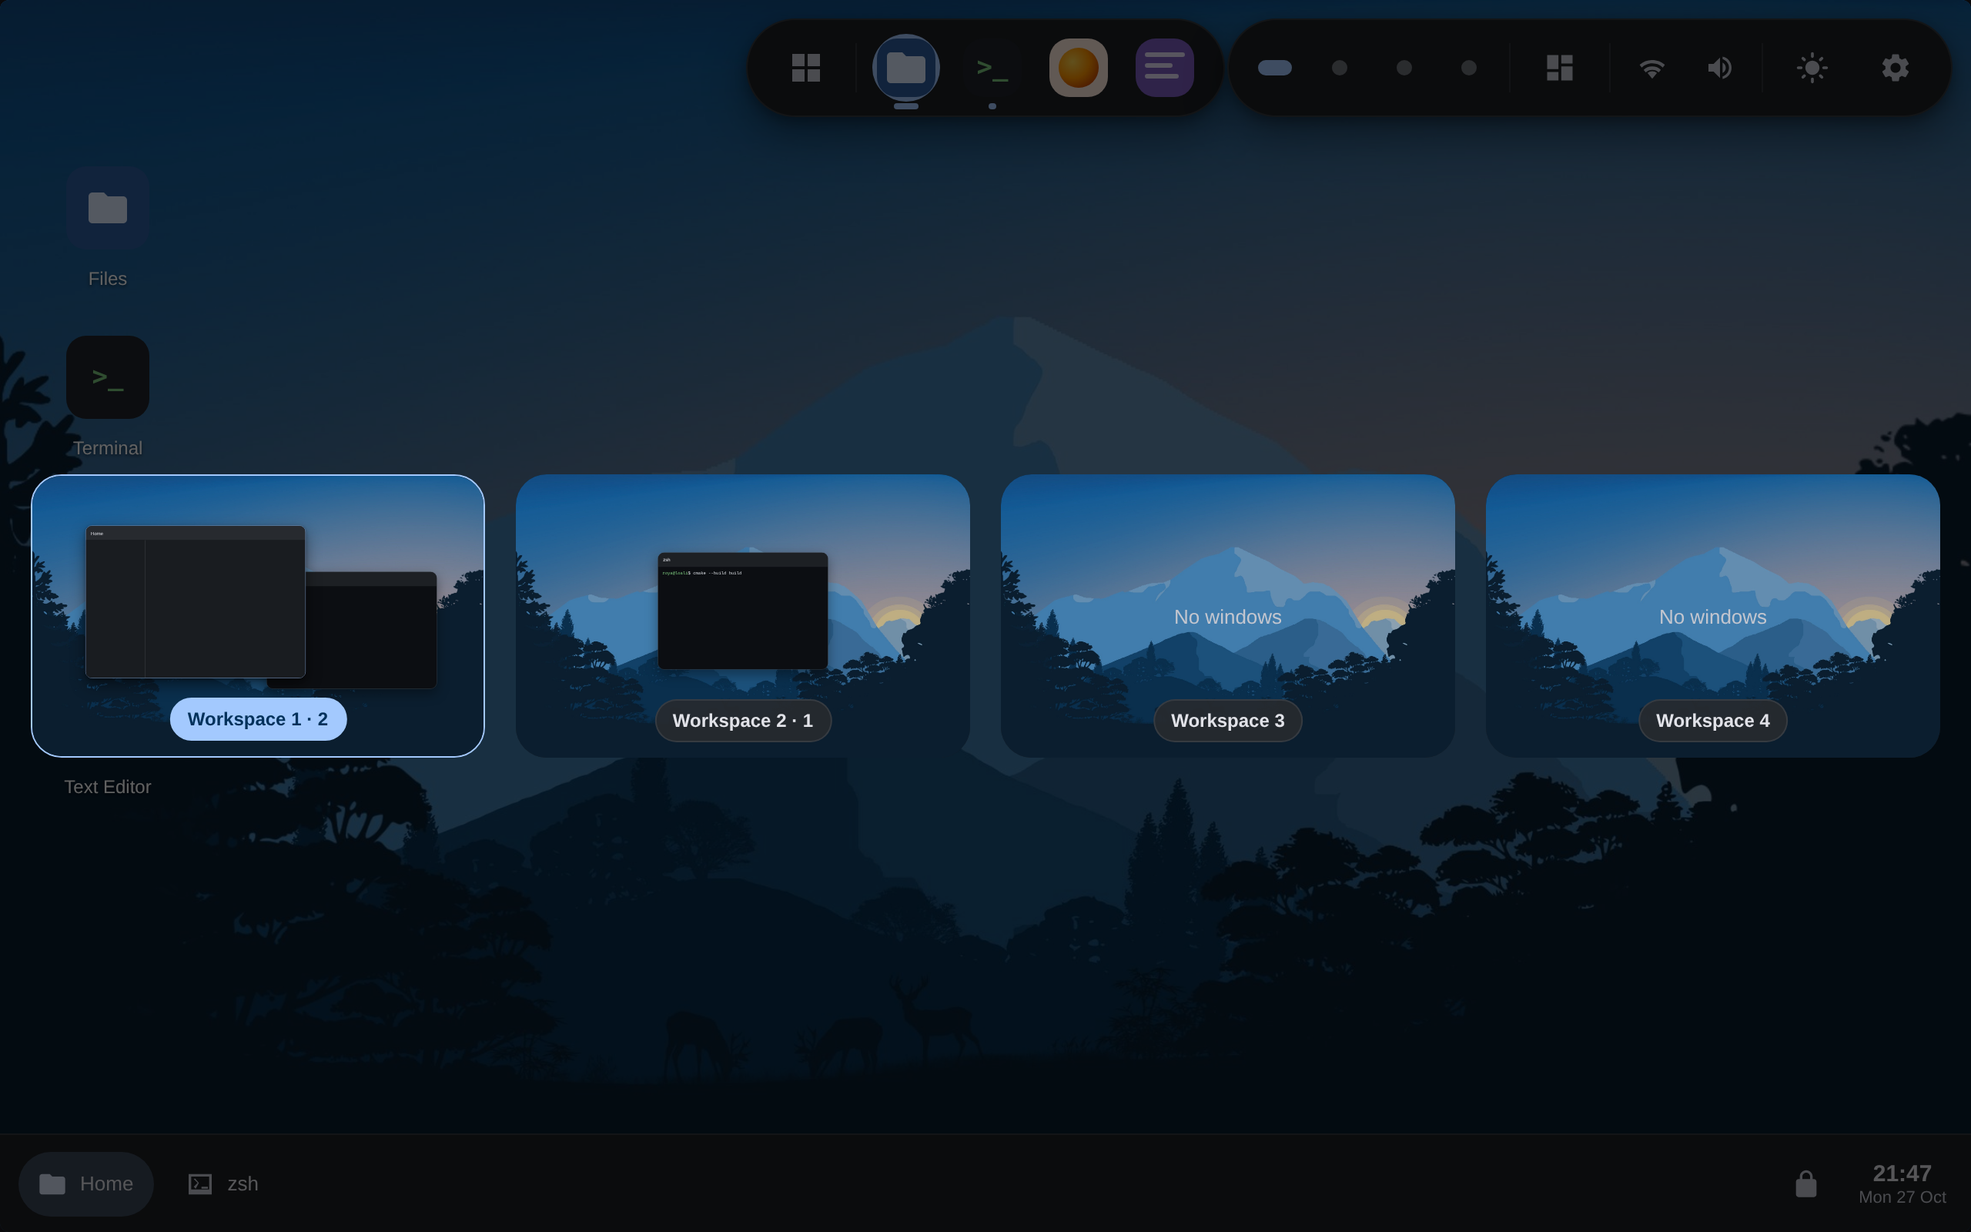
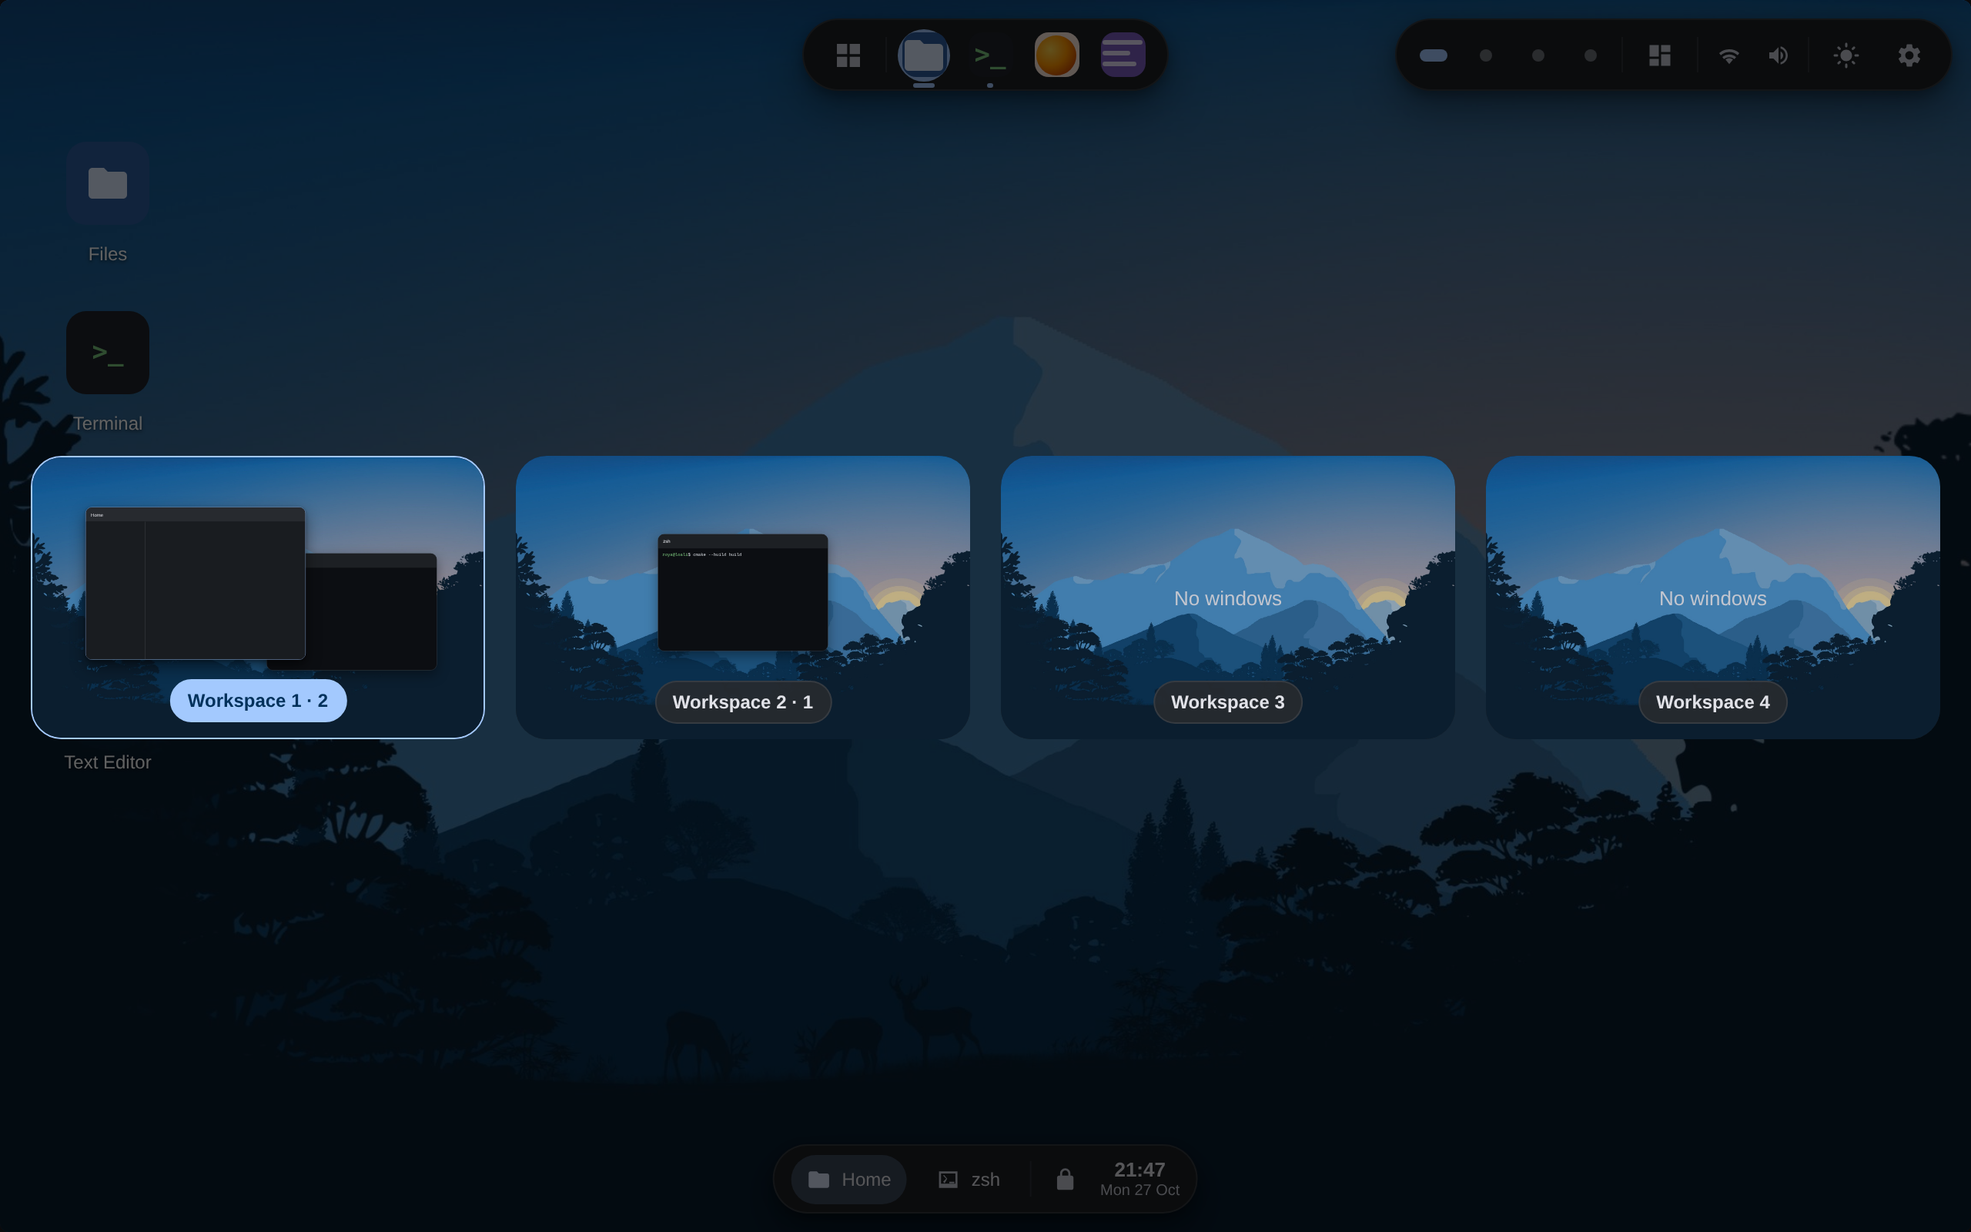
docs

diff --git a/README.md b/README.md
@@ -22,23 +22,24 @@
 
 ---
 
-**Loali** is a lightweight, expressive desktop shell for Linux. It is a real Wayland compositor written in C++ and QML on top of Qt Wayland Compositor — the same technology used by production display servers. Instead of floating windows over an empty canvas, Loali brings a familiar and friendly layout: a **dock pinned to the top**, a **taskbar along the bottom**, and **icons living right on the desktop**, all wrapped in the bold shapes, vivid tonal colors and springy motion of Material 3 Expressive.
+**Loali** is a lightweight, expressive desktop shell for Linux. It is a real Wayland compositor written in C++ and QML on top of Qt Wayland Compositor — the same technology used by production display servers. Instead of floating windows over an empty canvas, Loali brings a familiar and friendly layout: a **dock up top** (a morphing Dynamic Island or a flat plane), a **taskbar at the bottom** (a streamlined floating pill or a classic full-width bar), and **icons living right on the desktop**, all wrapped in the bold shapes, vivid tonal colors and springy motion of Material 3 Expressive.
 
 <div align="center">
   <a href="docs/screenshots/desktop.png"><img src="docs/screenshots/desktop.png" alt="Loali desktop — dock, status pill, taskbar, windows and notifications" width="49%"/></a>
   <a href="docs/screenshots/expo.png"><img src="docs/screenshots/expo.png" alt="Workspace overview with live window previews" width="49%"/></a>
   <br/>
   <a href="docs/screenshots/launcher.png"><img src="docs/screenshots/launcher.png" alt="App launcher with search" width="49%"/></a>
-  <a href="docs/screenshots/settings.png"><img src="docs/screenshots/settings.png" alt="Settings — appearance, dynamic color and accents" width="49%"/></a>
-  <p><em>Desktop · workspace overview (Super+W) · app launcher (Super+A) · Settings (Super+S)</em></p>
+  <a href="docs/screenshots/settings.png"><img src="docs/screenshots/settings.png" alt="Settings — panels, dynamic color and accents" width="49%"/></a>
+  <p><em>Desktop · workspace overview (Super+W) · app launcher (Super+A) · Settings → Panels (Super+S)</em></p>
 </div>
 
 ## Features
 
 - **Native Wayland compositor** — Loali *is* the display server, built with the official Qt Wayland Compositor API (XdgShell, server-side decorations, popups).
-- **Top dock** — a floating pill with pinned apps, springy hover magnification, running indicators and an app grid launcher button.
+- **Top dock** — two looks: a **Dynamic Island** pill that breathes with hover and app launches (it widens, shows the launched app’s title, then tucks back), or a flat full-width plane; pinned apps, springy hover magnification and running indicators in both.
 - **Status pill** — workspace dots, a StatusNotifier system tray and a settings button, floating at the top right.
-- **Bottom taskbar** — window buttons for every open toplevel, a lock shortcut and a live clock.
+- **Bottom taskbar** — two styles: a **streamlined floating pill** that stays out of the corners and widens only when tasks overflow, or a classic full-width bar; window buttons, a lock shortcut and a live clock.
+- **Panel size control** — a single slider in Settings → Panels scales the dock, taskbar and status pill together (70–130 %), and maximized windows keep their work area in sync automatically.
 - **Desktop icons** — a grid of installed applications directly on the wallpaper, with selection and double-click launch.
 - **App launcher** — a searchable full-screen grid of installed applications.
 - **Virtual workspaces** — 2–6 independent desktops with an animated switcher in the status pill, `Super+1…6` to switch and `Super+Shift+1…6` to send windows across.
@@ -49,7 +50,7 @@
 - **Dark / light theme** — a one-tap toggle (status pill or Settings → Appearance) switches the entire M3 token set between the dark and light Material schemes, Obsidian-style; the dynamic Material You palette is regenerated for the chosen mode and persisted.
 - **Notifications daemon** — a real `org.freedesktop.Notifications` server on the session bus: summary, body, app icons and image hints render as M3 cards stacked in the corner, actions are forwarded back to the sender, critical alerts stay on screen, and Do Not Disturb lives in Settings.
 - **Dynamic Material You color** — the seed color is extracted from the wallpaper (Wu quantizer + scoring) and a full Material 3 tonal scheme is generated with Google’s `material-color-utilities` (HCT / CAM16); dock, taskbar, windows, launcher and settings all recolor live, with manual accent and wallpaper-suggested swatches as fallback.
-- **Settings application** — a built-in M3 settings app with wallpaper (bundled art, custom image path, dim overlay), accent color, workspace count, a shortcut cheat-sheet and an about page; everything persists via QSettings.
+- **Settings application** — a built-in M3 settings app with wallpaper (bundled art, custom image path, dim overlay), accent color, panels (taskbar style, dock look, panel size), workspace count, a shortcut cheat-sheet and an about page; everything persists via QSettings.
 - **Wallpapers** — a bundled default artwork plus procedural M3E gradient styles, applied to the desktop and the lock screen.
 - **Window management** — server-side title bars, drag, 8-way resize, maximize, fullscreen, minimize, click-to-focus.
 - **Lock screen** — large M3 display-style clock over a dimmed wallpaper.
@@ -138,14 +139,14 @@ Loali/
 ├── qml/
 │   ├── Main.qml              WaylandCompositor, XdgShell, workspaces, shortcuts
 │   ├── Chrome.qml            server-side decorations, drag/resize, snap/tiling
-│   ├── Dock.qml              top dock (pinned apps, indicators)
+│   ├── Dock.qml              top dock (Dynamic Island / plane modes, pinned apps)
 │   ├── StatusPill.qml        workspaces switcher, expo button, tray icons, theme toggle
 │   ├── TrayMenuPanel.qml     M3 popup renderer for DBusMenu tray menus
 │   ├── Expo.qml              workspace overview with live window previews
-│   ├── Taskbar.qml           bottom taskbar (windows, lock, clock)
+│   ├── Taskbar.qml           bottom taskbar (floating / full modes, lock, clock)
 │   ├── Desktop.qml           wallpaper + desktop icon grid
 │   ├── Launcher.qml          app grid overlay with search
-│   ├── SettingsApp.qml       settings: wallpaper, dynamic color, workspaces, notifications, about
+│   ├── SettingsApp.qml       settings: wallpaper, appearance, panels, workspaces, notifications, about
 │   ├── NotificationPopups.qml  M3 notification cards stacked top-right
 │   ├── LockScreen.qml        lock overlay with big clock
 │   ├── Wallpaper.qml         image / procedural wallpapers with dim overlay
@@ -174,6 +175,7 @@ The shell follows the reference Qt compositor pattern: `XdgShell.onToplevelCreat
 - [x] Notifications daemon
 - [x] Dark / light theme toggle
 - [x] Workspace expo with window previews
+- [x] Floating taskbar and Dynamic Island dock, panel size settings
 
 ## Contributing
 
@@ -185,17 +187,17 @@ Loali is licensed under the [GNU GPL-3.0](LICENSE). Material Symbols path data u
 
 ## Русский
 
-**Loali** — лёгкая и выразительная графическая среда для Linux. Это настоящий Wayland-композитор на C++ и QML поверх Qt Wayland Compositor. Знакомая раскладка в смелом стиле Material 3 Expressive: **док сверху**, **панель задач снизу**, **иконки прямо на рабочем столе**.
+**Loali** — лёгкая и выразительная графическая среда для Linux. Это настоящий Wayland-композитор на C++ и QML поверх Qt Wayland Compositor. Знакомая раскладка в смелом стиле Material 3 Expressive: **док сверху** (морфирующий Dynamic Island или плоская полоса), **панель задач снизу** (обтекаемая плавающая пилюля или классическая полоса во всю ширину), **иконки прямо на рабочем столе**.
 
 <div align="center">
   <a href="docs/screenshots/desktop.png"><img src="docs/screenshots/desktop.png" alt="Рабочий стол Loali" width="49%"/></a>
   <a href="docs/screenshots/expo.png"><img src="docs/screenshots/expo.png" alt="Экспо рабочих столов" width="49%"/></a>
   <br/>
   <a href="docs/screenshots/launcher.png"><img src="docs/screenshots/launcher.png" alt="Лаунчер приложений" width="49%"/></a>
-  <a href="docs/screenshots/settings.png"><img src="docs/screenshots/settings.png" alt="Настройки — внешний вид" width="49%"/></a>
+  <a href="docs/screenshots/settings.png"><img src="docs/screenshots/settings.png" alt="Настройки — панели" width="49%"/></a>
 </div>
 
-Возможности: нативный Wayland-композитор (XdgShell, серверные декорации), верхний док с закреплёнными приложениями и пружинными анимациями, статус-пилюля с переключателем рабочих столов, кнопкой экспо, системным треем и переключателем темы, нижний таскбар с кнопками окон и часами, сетка иконок на рабочем столе, лаунчер с поиском, **виртуальные рабочие столы** (2–6, переключение `Super+1…6`, перенос окон `Super+Shift+1…6`), **экспо рабочих столов** (`Super+W`) с живыми превью окон: клик по ячейке переключает стол, перетаскивание окна между ячейками переносит его между столами, **тайлинг окон** — половины и углы по `Super`-стрелкам и перетаскиванием к краям экрана с живым превью, **меню трея по DBusMenu** — правый клик по иконке трея показывает настоящее меню `com.canonical.dbusmenu` (иконки, разделители, галочки, радиокнопки, подменю), **drag-упорядочивание иконок трея** — порядок сохраняется между сессиями, **светлая и тёмная темы** — переключение всего набора токенов M3 одним тапом, **демон уведомлений** `org.freedesktop.Notifications` — карточки M3 с действиями, критические алерты и режим «Не беспокоить», **динамический цвет Material You** — палитра генерируется из обоев (квантизатор Wu + HCT/CAM16 из material-color-utilities), интерфейс перекрашивается на лету, есть ручной акцент и подсказки обоев, **приложение «Настройки»** — обои (встроенные, свой файл, затемнение), тёмная тема, динамический и ручной акцент, число рабочих столов, уведомления, шпаргалка по клавишам, перетаскивание, изменение размера с 8 сторон, разворачивание, сворачивание, экран блокировки с большими часами, автоматический поиск приложений по `.desktop`-файлам.
+Возможности: нативный Wayland-композитор (XdgShell, серверные декорации), верхний док с двумя видами — **Dynamic Island** (пилюля дышит при наведении и запуске приложений: расширяется, показывает название запущенного приложения и складывается обратно) и плоская полоса во всю ширину, статус-пилюля с переключателем рабочих столов, кнопкой экспо, системным треем и переключателем темы, нижний таскбар с двумя стилями — **обтекаемая плавающая пилюля**, которая не тянется по углам и расширяется только при переполнении задачами, либо классическая полоса, сетка иконок на рабочем столе, лаунчер с поиском, **настройка размера панелей** — один слайдер в Настройки → Панели масштабирует док, таскбар и статус-пилюлю (70–130 %), область разворачивания окон синхронизируется автоматически, **виртуальные рабочие столы** (2–6, переключение `Super+1…6`, перенос окон `Super+Shift+1…6`), **экспо рабочих столов** (`Super+W`) с живыми превью окон: клик по ячейке переключает стол, перетаскивание окна между ячейками переносит его между столами, **тайлинг окон** — половины и углы по `Super`-стрелкам и перетаскиванием к краям экрана с живым превью, **меню трея по DBusMenu** — правый клик по иконке трея показывает настоящее меню `com.canonical.dbusmenu` (иконки, разделители, галочки, радиокнопки, подменю), **drag-упорядочивание иконок трея** — порядок сохраняется между сессиями, **светлая и тёмная темы** — переключение всего набора токенов M3 одним тапом, **демон уведомлений** `org.freedesktop.Notifications` — карточки M3 с действиями, критические алерты и режим «Не беспокоить», **динамический цвет Material You** — палитра генерируется из обоев (квантизатор Wu + HCT/CAM16 из material-color-utilities), интерфейс перекрашивается на лету, есть ручной акцент и подсказки обоев, **приложение «Настройки»** — обои (встроенные, свой файл, затемнение), тёмная тема, динамический и ручной акцент, панели (стиль таскбара, вид дока, размер), число рабочих столов, уведомления, шпаргалка по клавишам, перетаскивание, изменение размера с 8 сторон, разворачивание, сворачивание, экран блокировки с большими часами, автоматический поиск приложений по `.desktop`-файлам.
 
 Сборка и запуск:
 
